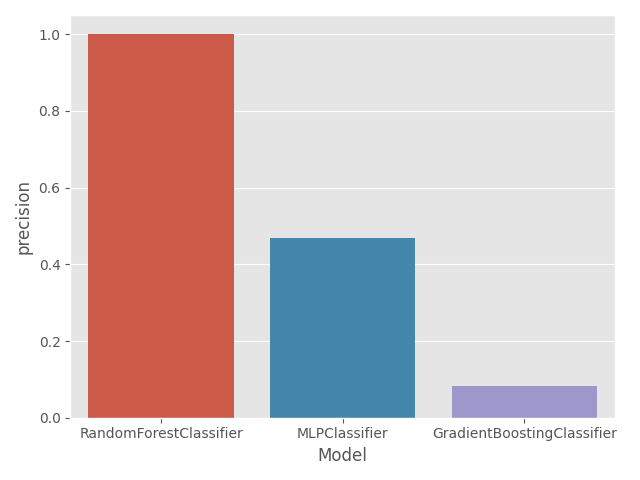
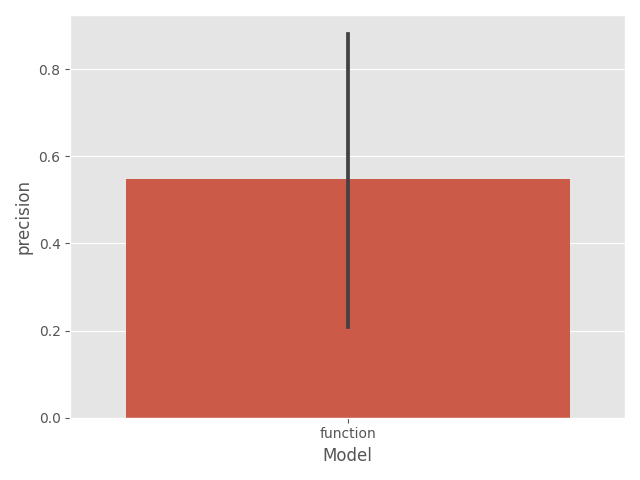
fixed model name printing

diff --git a/experiments/evaluate.py b/experiments/evaluate.py
@@ -33,7 +33,7 @@ class ClassifierExperiment(StarExperiment):
         x_np = x.to_numpy()
         return x_np,y_np,metadata
 
-    def plot(self,dataset_name,class_feature_name,train_scores,test_scores,x_label,x_values):
+    def plot_scores(self,dataset_name,class_feature_name,train_scores,test_scores,x_label,x_values):
         subsets = ["train","test"]
         for i,scores in enumerate([train_scores,test_scores]):
             subset = subsets[i]
@@ -122,19 +122,21 @@ class EvaluateClassifiers(ClassifierExperiment):
         # models = {"mlp":self.mlp,"rf":self.rf,"gbc":self.gbc}
         model_generators = [NeuralNetwork, RandomForest,GradientBoosting,MLP]
         class_features = ["em","be"]
-        model_names = [model.__class__.__name__ for model in model_generators]
+        
         features_ids = [None,"q3","q4"]
         for dataset_name, class_feature_name, feature_id in  product(dataset_names,class_features,features_ids):
             x,y,metadata = self.load_dataset(dataset_name,feature_id,class_feature_name)
             train_scores_models = {"fscore":[],"precision":[],"recall":[]}
             test_scores_models =  {"fscore":[],"precision":[],"recall":[]}
+            model_names = []
             for model_generator in model_generators:
                 model = model_generator(x.shape[1:])
+                model_names.append(model.__class__.name)
                 x_train, x_test, y_train, y_test = sklearn.model_selection.train_test_split(x, y, test_size=0.20, random_state=0, stratify=y)
                 train_scores,test_scores = self.train_evaluate(model,x_train, x_test,y_train, y_test)
                 append_all(train_scores,train_scores_models)
                 append_all(test_scores,test_scores_models)                
-            self.plot(dataset_name,class_feature_name,train_scores_models,test_scores_models,"Model",model_names)
+            self.plot_scores(dataset_name,class_feature_name,train_scores_models,test_scores_models,"Model",model_names)
             
 
         
@@ -158,10 +160,12 @@ class DetermineMinimumTrainingSet(ClassifierExperiment):
             x,y,metadata = self.load_dataset(dataset_name,feature_id,class_feature_name)
             train_scores_models = {"fscore":[],"precision":[],"recall":[]}
             test_scores_models =  {"fscore":[],"precision":[],"recall":[]}
+            
             for training_set_sizes in training_set_sizes:
                 model = model_generator(x.shape[1:])
+                model_name = model.__class__.name
                 x_train, x_test, y_train, y_test = sklearn.model_selection.train_test_split(x, y, test_size=1-training_set_sizes, random_state=0, stratify=y)
                 train_scores,test_scores = self.train_evaluate(model,x_train, x_test,y_train, y_test)
                 append_all(train_scores,train_scores_models)
                 append_all(test_scores,test_scores_models)                
-            self.plot(dataset_name,class_feature_name,train_scores_models,test_scores_models,"Training set %",training_set_sizes)
+            self.plot_scores(dataset_name,class_feature_name,train_scores_models,test_scores_models,"Training set %",training_set_sizes)

diff --git a/main.tex b/main.tex
@@ -39,10 +39,15 @@ In order to establish a baseline performance for classifying EM objects, we spli
 \end{verbatim}
     
 \begin{figure}
-    \includegraphics[width=0.49\linewidth]{plots/SKLearnClassifiers/aidelman_train_fscore.png}
-    \includegraphics[width=0.49\linewidth]{plots/SKLearnClassifiers/aidelman_test_fscore.png}
+    \includegraphics[width=0.49\linewidth]{plots/SKLearnClassifiers/aidelman_em_train_fscore.png}
+    \includegraphics[width=0.49\linewidth]{plots/SKLearnClassifiers/aidelman_em_test_fscore.png}
     \caption{F-Score for train (left) and test (right) sets when classifying stars as EM or not.}
 \end{figure}
 
+\begin{figure}
+    \includegraphics[width=0.49\linewidth]{plots/SKLearnClassifiers/aidelman_be_train_fscore.png}
+    \includegraphics[width=0.49\linewidth]{plots/SKLearnClassifiers/aidelman_be_test_fscore.png}
+    \caption{F-Score for train (left) and test (right) sets when classifying stars as BE or not.}
+\end{figure}
 
 \end{document}

diff --git a/run.py b/run.py
@@ -3,7 +3,7 @@
 from experiments.cross_dataset import CrossDatasetAccuracy
 from experiments.feature_selection import BinaryFeatureSelection
 from experiments.statistics import DatasetClassDistributionEM,DatasetClassDistribution,OutlierDetectionTukey,OutlierDetectionNormalConfidenceInterval
-from experiments.evaluate import EvaluateClassifiers
+from experiments.evaluate import EvaluateClassifiers,DetermineMinimumTrainingSet
 
 # jupyter nbconvert --to pdf --execute "Exploratory analysis.ipynb" --output "all_em.pdf"
 
@@ -17,7 +17,8 @@ if __name__ == '__main__':
                     #BinaryFeatureSelection(),
                 #    OutlierDetectionTukey(),
                 #    OutlierDetectionNormalConfidenceInterval(),
-                   EvaluateClassifiers()
+                   EvaluateClassifiers(),
+                   DetermineMinimumTrainingSet(),
 
                    ]
 

diff --git a/todo.md b/todo.md
@@ -1,10 +1,13 @@
 * removed first 2 samples from liu because they had too many outlier values
-
-* models to detect Be stars
 * save detected be/em stars in test sets with ground truth not be/em
 * autoencoder for stars
+  * Add as feature
 * unsupervised star modeling (GMM)
   * use test set to check that it works
 * Test single feature classifiers for EM/BE
+* Run training test size exp
+* Fix and generalize class distribution experiments
+* Add Experiment name parser 
 * Add progress indicators to sklearn models
-* Measure with q features and also autoencoders.
+* Check that missing values in EM and BE indicate confirmed non EM and non BE stars
+* 
